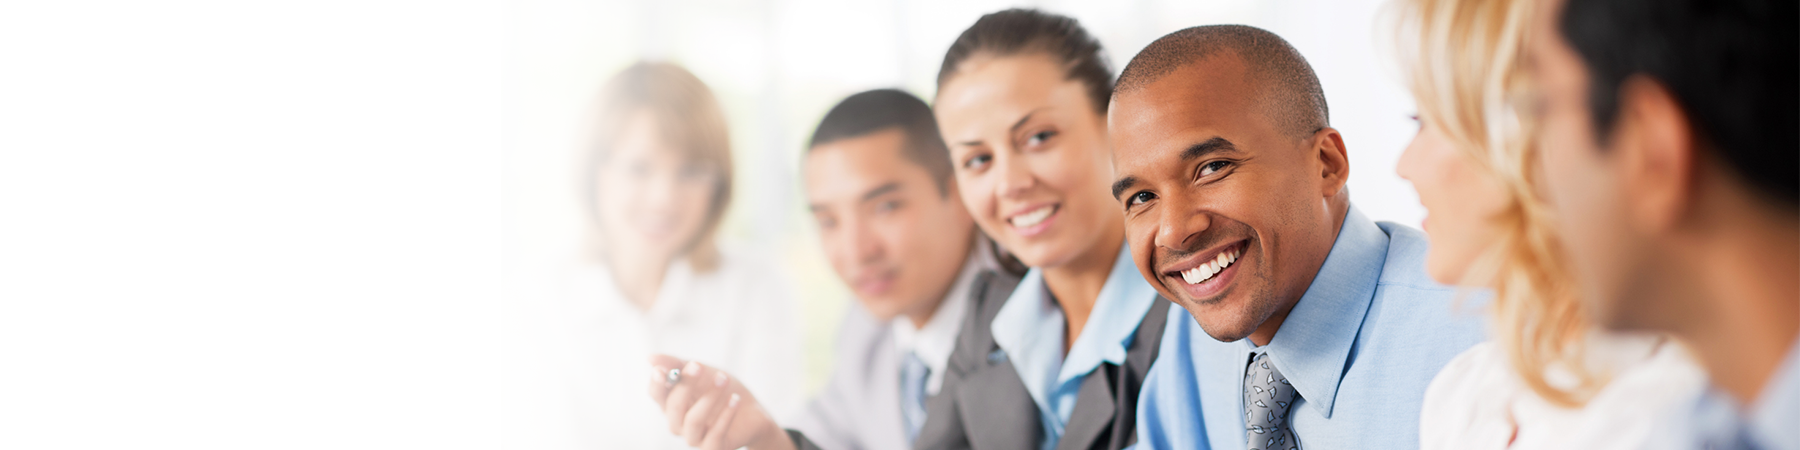
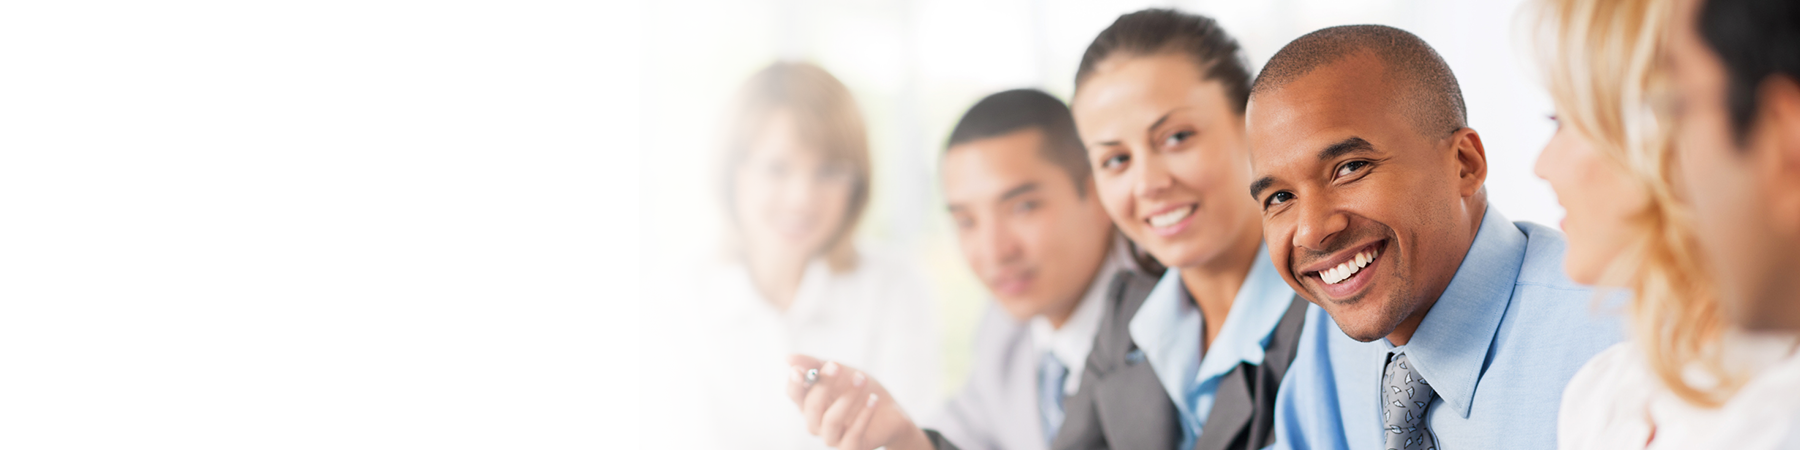
updates

diff --git a/temp.html b/temp.html
@@ -10,7 +10,7 @@
     
     <link rel="stylesheet" href="css/global.css" type="text/css" />
   </head>
-  <body>
+  <body id="index">
     <header class="bg-primary">
       <div class="container">
         <div class="row">
@@ -38,7 +38,7 @@
     <section class="body bg-hero">
       <div class="container">
         <div class="row">
-          <div class="col-1">
+          <div class="col-2">
             <h1 class="color-primary">
               The page title
             </h1>
@@ -46,28 +46,38 @@
             <p>
               Lorem ipsum dolor sit amet, consectetur adipiscing elit, sed do eiusmod tempor incididunt ut labore et dolore magna aliqua. Ut enim ad minim veniam, quis nostrud exercitation ullamco laboris nisi ut aliquip ex ea commodo consequat. 
             </p>
+            
+            <p>
+              <a href="#" title="Read more" class="btn btn-primary">Read more</a>
+            </p>
           </div>
         </div>
-        
+      </div>
+    </section>
+    
+    <section>
+      <div class="container">
         <div class="row">
-          <div class="col-2">
-            <h3 class="color-secondary">
-              A heading title
-            </h3>
+          <div class="row">
+            <div class="col-2">
+              <h3 class="color-secondary">
+                A heading title
+              </h3>
+                
+              <p>
+                Lorem ipsum dolor sit amet, consectetur adipiscing elit, sed do eiusmod tempor incididunt ut labore et dolore magna aliqua. Ut enim ad minim veniam, quis nostrud exercitation ullamco laboris nisi ut aliquip ex ea commodo consequat.
+              </p>
+            </div>
               
-            <p>
-              Lorem ipsum dolor sit amet, consectetur adipiscing elit, sed do eiusmod tempor incididunt ut labore et dolore magna aliqua. Ut enim ad minim veniam, quis nostrud exercitation ullamco laboris nisi ut aliquip ex ea commodo consequat.
-            </p>
-          </div>
-            
-          <div class="col-2">
-            <h3 class="color-secondary">
-              A heading title
-            </h3>
-            
-            <p>
-              Lorem ipsum dolor sit amet, consectetur adipiscing elit, sed do eiusmod tempor incididunt ut labore et dolore magna aliqua. Ut enim ad minim veniam, quis nostrud exercitation ullamco laboris nisi ut aliquip ex ea commodo consequat.
-            </p>
+            <div class="col-2">
+              <h3 class="color-secondary">
+                A heading title
+              </h3>
+              
+              <p>
+                Lorem ipsum dolor sit amet, consectetur adipiscing elit, sed do eiusmod tempor incididunt ut labore et dolore magna aliqua. Ut enim ad minim veniam, quis nostrud exercitation ullamco laboris nisi ut aliquip ex ea commodo consequat.
+              </p>
+            </div>
           </div>
         </div>
       </div>

diff --git a/css/global.css b/css/global.css
@@ -11,7 +11,7 @@
 body{
   font-family: 'Open Sans', Helvetica, Arial, sans-serif;
   font-size: 16px;
-  line-height: 1.5;
+  line-height: 1.6;
   background-color: #dff6f0;
 }
 
@@ -76,6 +76,10 @@ h3 {
   margin-bottom: 15px;
 }
 
+p {
+  margin: 1em 0 1.3em;
+}
+
 /* Branding */
 
 .bg-primary {
@@ -108,6 +112,13 @@ a.color-tertiary,
 a.color-white,
 .color-white {
   color: #fff;
+}
+
+a.btn-primary,
+.btn-primary {
+  text-decoration: none;
+  color: #fff;
+  background-color: #46b3e6;
 }
 
 /* Header */
@@ -183,6 +194,14 @@ section div[class*="col-"] {
   padding-top: 15px;
   padding-bottom: 15px;  
 }
+
+/* Content */ 
+
+#index .bg-hero {
+  background-image: url("../img/hero-landing.png");
+  background-size: cover;
+  background-position: 35% 0;
+}
   
 @media (min-width: 768px) {
   .container {
@@ -201,5 +220,9 @@ section div[class*="col-"] {
   
   header nav {
     display: block;
+  }
+  
+  #index .bg-hero {
+    background-position: top center;
   }
 }
